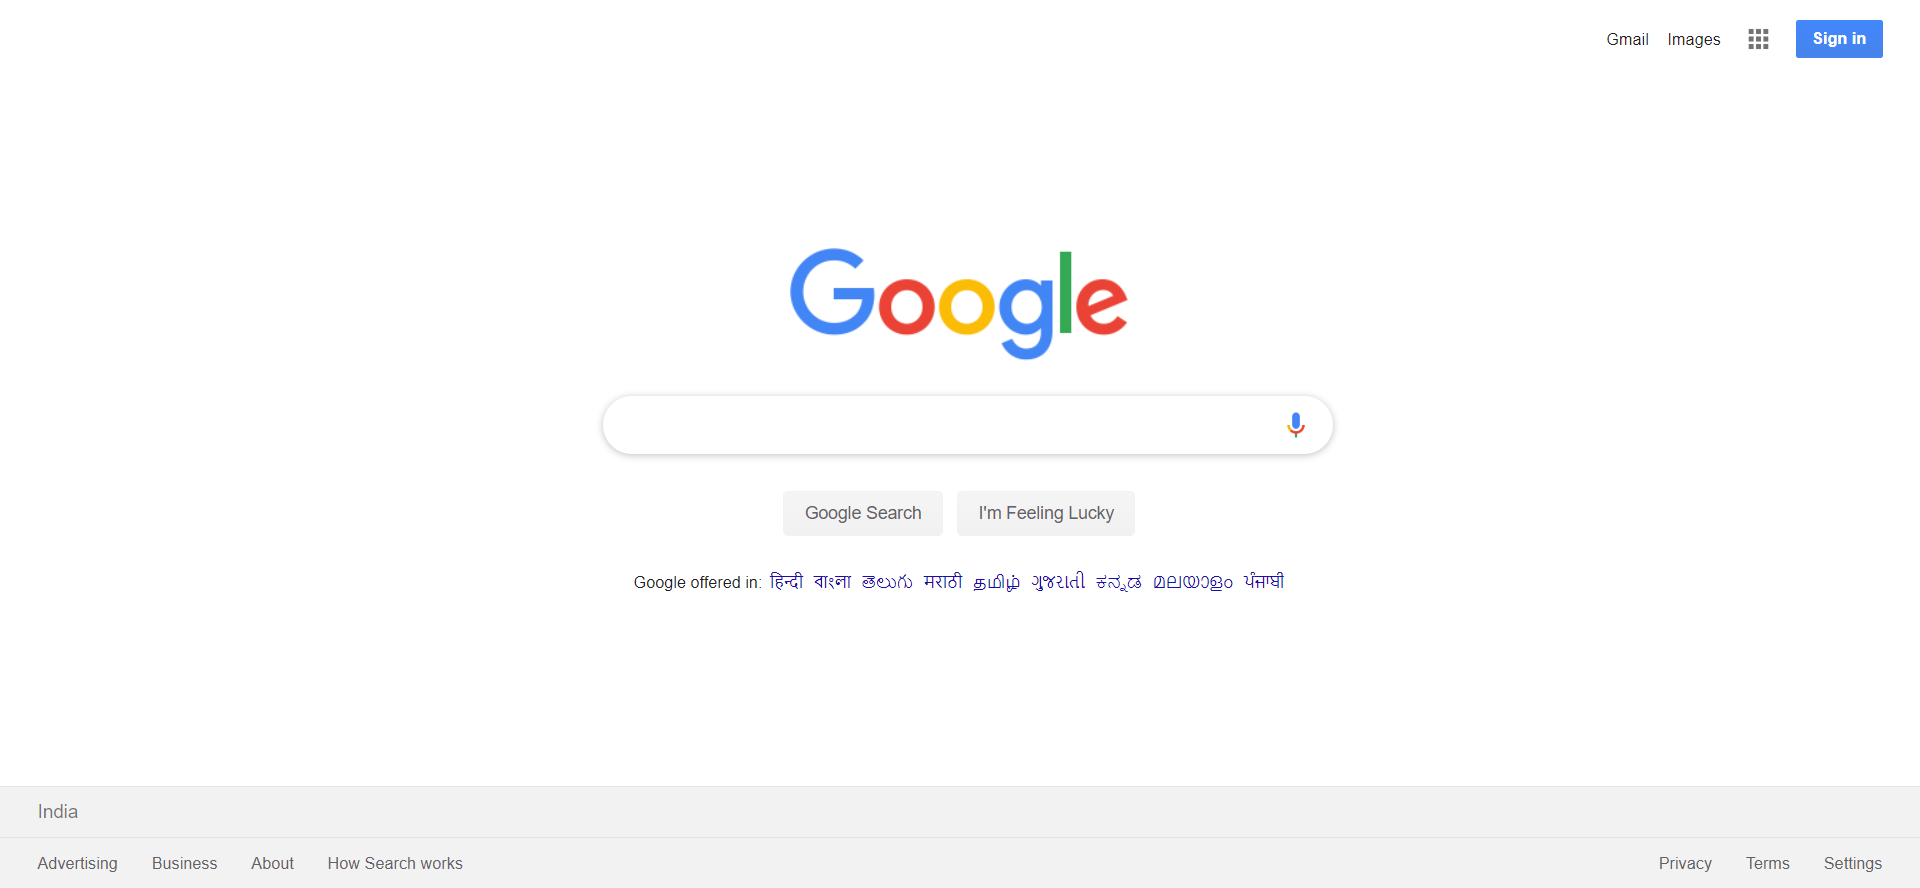
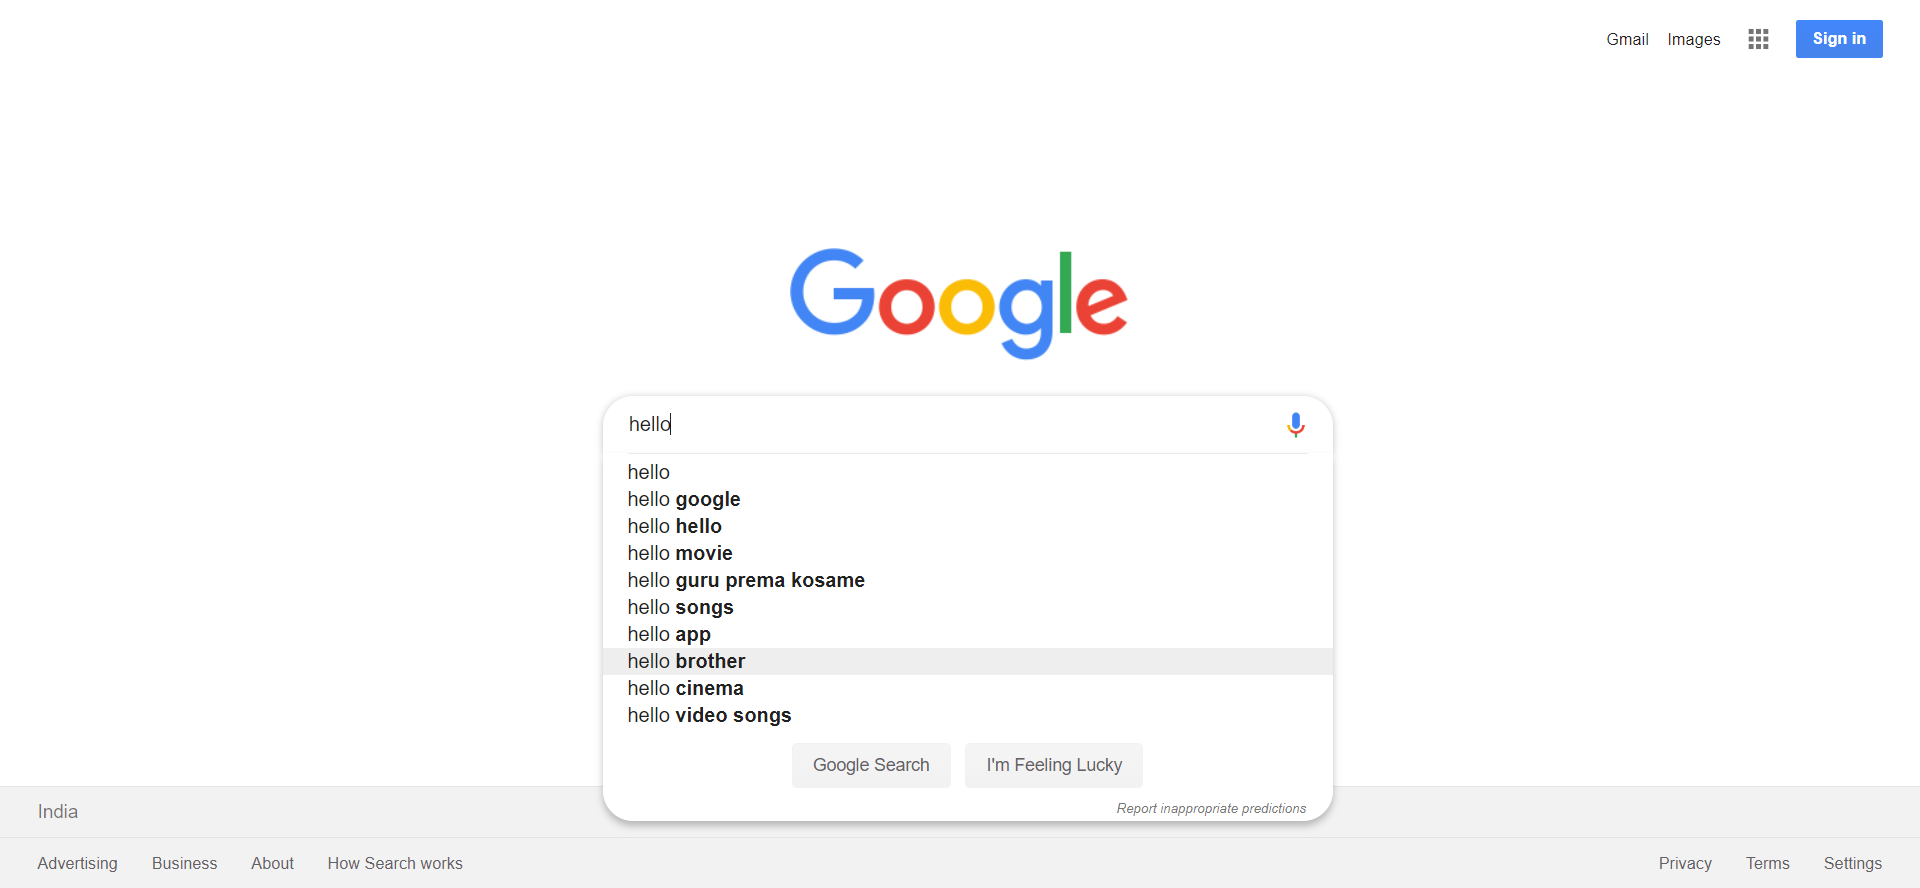
Updated Code

diff --git a/src/com/demo/util/Base.java b/src/com/demo/util/Base.java
@@ -7,6 +7,7 @@ import java.io.IOException;
 import java.io.PrintWriter;
 
 import org.apache.commons.io.FileUtils;
+import org.openqa.selenium.By;
 import org.openqa.selenium.OutputType;
 import org.openqa.selenium.TakesScreenshot;
 import org.openqa.selenium.WebDriver;
@@ -21,6 +22,7 @@ public class Base {
 		driver = new ChromeDriver();
 		driver.manage().window().maximize();
 		driver.get("https://www.google.co.in/");
+		driver.findElement(By.name("q")).sendKeys("hello");
 	}
 	
 	public void failed(String testCaseName) {
